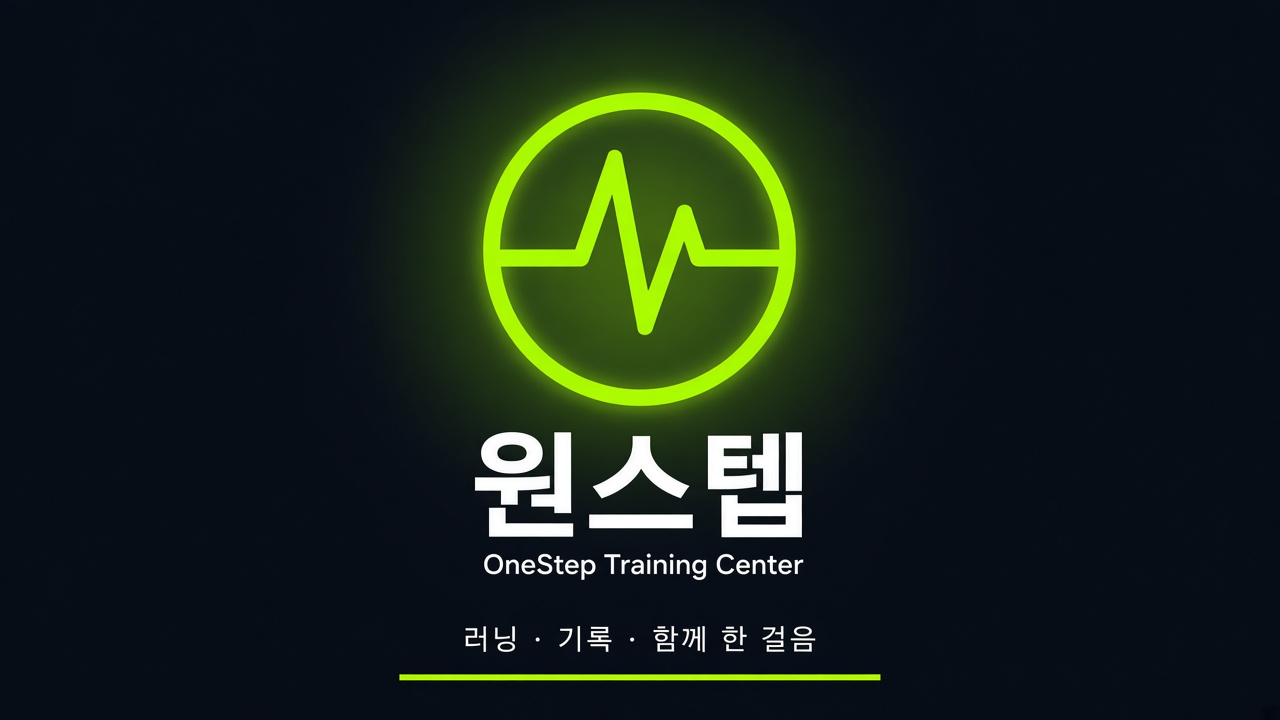
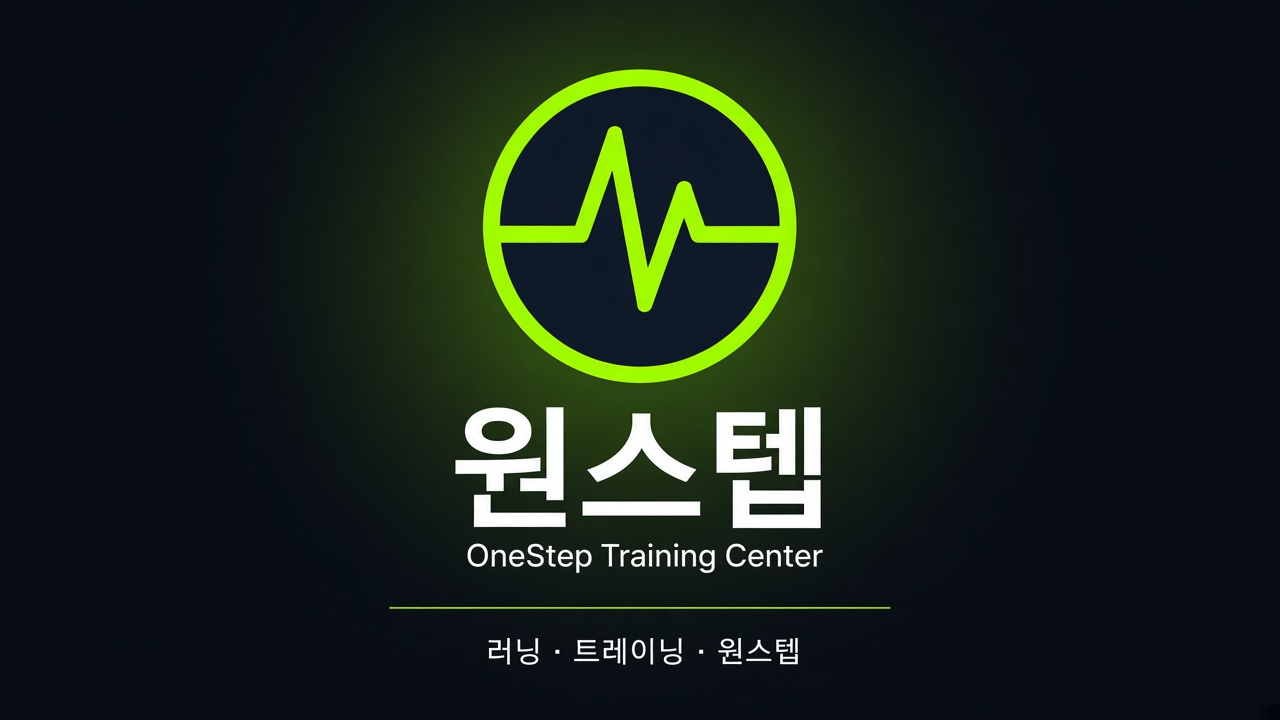
최근

Changed region(s): [[0.3438, 0.0917, 0.6562, 0.825], [0.3125, 0.8556, 0.6875, 0.9472]]

diff --git a/app/e/[eventId]/page.tsx b/app/e/[eventId]/page.tsx
@@ -1,41 +1,51 @@
 import type { Metadata } from 'next'
-import { EventShareLanding } from '@/components/share/event-share-landing'
+import { headers } from 'next/headers'
+import { redirect } from 'next/navigation'
+import { BrandPulseAppIcon } from '@/components/brand/brand-pulse-mark'
 import { buildEventMatchPortalPath } from '@/lib/event-match-share'
 
 type PageProps = {
   params: Promise<{ eventId: string }>
 }
 
+const SHARE_TITLE = '원스텝'
+const SHARE_DESCRIPTION =
+  '원스텝 트레이닝센터 — 러닝과 트레이닝을 함께하는 공간. OneStep Training Center'
+
+function isLinkPreviewScraper(userAgent: string) {
+  // 실제 카카오톡 인앱 브라우저(UA에 Kakaotalk 포함)는 제외 — 스크래퍼만
+  return /facebookexternalhit|kakaotalk-scrap|Twitterbot|Slackbot|LinkedInBot|Discordbot|WhatsApp|TelegramBot|embedly|Pinterest|bingbot|Googlebot|Yeti|naver|Daum/i.test(
+    userAgent,
+  )
+}
+
 export async function generateMetadata({ params }: PageProps): Promise<Metadata> {
   const { eventId } = await params
-  const title = '기록 맞추기 · 원스텝'
-  const description =
-    '대회 예상 기록을 맞추고, 실제 기록과 가장 가까운 사람이 상품을 받습니다. OneStep Training Center'
 
   return {
-    title,
-    description,
+    title: SHARE_TITLE,
+    description: SHARE_DESCRIPTION,
     openGraph: {
-      title,
-      description,
+      title: SHARE_TITLE,
+      description: SHARE_DESCRIPTION,
       url: `/e/${encodeURIComponent(eventId)}`,
       siteName: '원스텝',
       locale: 'ko_KR',
       type: 'website',
       images: [
         {
-          url: '/og/event.jpg',
+          url: '/og-default.jpg',
           width: 1200,
           height: 630,
-          alt: '원스텝 기록 맞추기',
+          alt: '원스텝',
         },
       ],
     },
     twitter: {
       card: 'summary_large_image',
-      title,
-      description,
-      images: ['/og/event.jpg'],
+      title: SHARE_TITLE,
+      description: SHARE_DESCRIPTION,
+      images: ['/og-default.jpg'],
     },
   }
 }
@@ -43,5 +53,23 @@ export async function generateMetadata({ params }: PageProps): Promise<Metadata>
 export default async function EventSharePage({ params }: PageProps) {
   const { eventId } = await params
   const href = buildEventMatchPortalPath(eventId.trim(), '/dashboard/running-portal')
-  return <EventShareLanding href={href} />
+  const ua = (await headers()).get('user-agent') ?? ''
+
+  if (!isLinkPreviewScraper(ua)) {
+    redirect(href)
+  }
+
+  return (
+    <main className="relative flex min-h-dvh flex-col items-center justify-center overflow-hidden bg-[#070d18] px-6 text-center text-white">
+      <div
+        aria-hidden
+        className="pointer-events-none absolute inset-0 bg-[radial-gradient(ellipse_at_50%_35%,rgba(170,255,0,0.18),transparent_55%)]"
+      />
+      <BrandPulseAppIcon glow className="relative h-20 w-20" />
+      <p className="relative mt-4 text-3xl font-black tracking-tight">원스텝</p>
+      <p className="relative mt-3 max-w-xs text-sm leading-relaxed text-white/65">
+        원스텝 트레이닝센터
+      </p>
+    </main>
+  )
 }

diff --git a/app/auth/login/page.tsx b/app/auth/login/page.tsx
@@ -359,10 +359,9 @@ function LoginPageInner() {
                   {nextPath ? (
                     <input type="hidden" name="next" value={nextPath} />
                   ) : null}
-                  {nextPath.includes('eventMatch=') ? (
+                  {nextPath ? (
                     <p className="rounded-lg border border-primary/25 bg-primary/5 px-3 py-2 text-xs leading-relaxed text-muted-foreground">
-                      이벤트 링크로 들어왔습니다. 카카오톡 등 외부 앱에서는 로그인
-                      세션이 따로라서 한 번 로그인하면 해당 이벤트로 이동합니다.
+                      공유 링크로 들어왔습니다. 로그인하면 해당 화면으로 이동합니다.
                     </p>
                   ) : null}
                   <div className="space-y-2">

diff --git a/components/dashboard/member-record-match-panel.tsx b/components/dashboard/member-record-match-panel.tsx
@@ -185,10 +185,7 @@ export function MemberRecordMatchPanel({
     const url = buildEventMatchShareUrl(eventId, sharePath)
     try {
       await navigator.clipboard.writeText(url)
-      toast.success('이벤트 링크를 복사했습니다.', {
-        description:
-          '카카오톡 등에서는 로그인 세션이 따로라 한 번 로그인하면 이벤트로 이동합니다.',
-      })
+      toast.success('링크를 복사했습니다.')
     } catch {
       toast.error('링크를 복사하지 못했습니다.', { description: url })
     }

diff --git a/app/layout.tsx b/app/layout.tsx
@@ -110,7 +110,7 @@ const portalFontVariables = [
 ].join(' ')
 
 const SITE_DESCRIPTION =
-  '러닝 · 기록 · 함께 한 걸음. OneStep Training Center 회원 포털'
+  '원스텝 트레이닝센터 — 러닝과 트레이닝을 함께하는 공간. OneStep Training Center'
 
 export const metadata: Metadata = {
   metadataBase: new URL(
